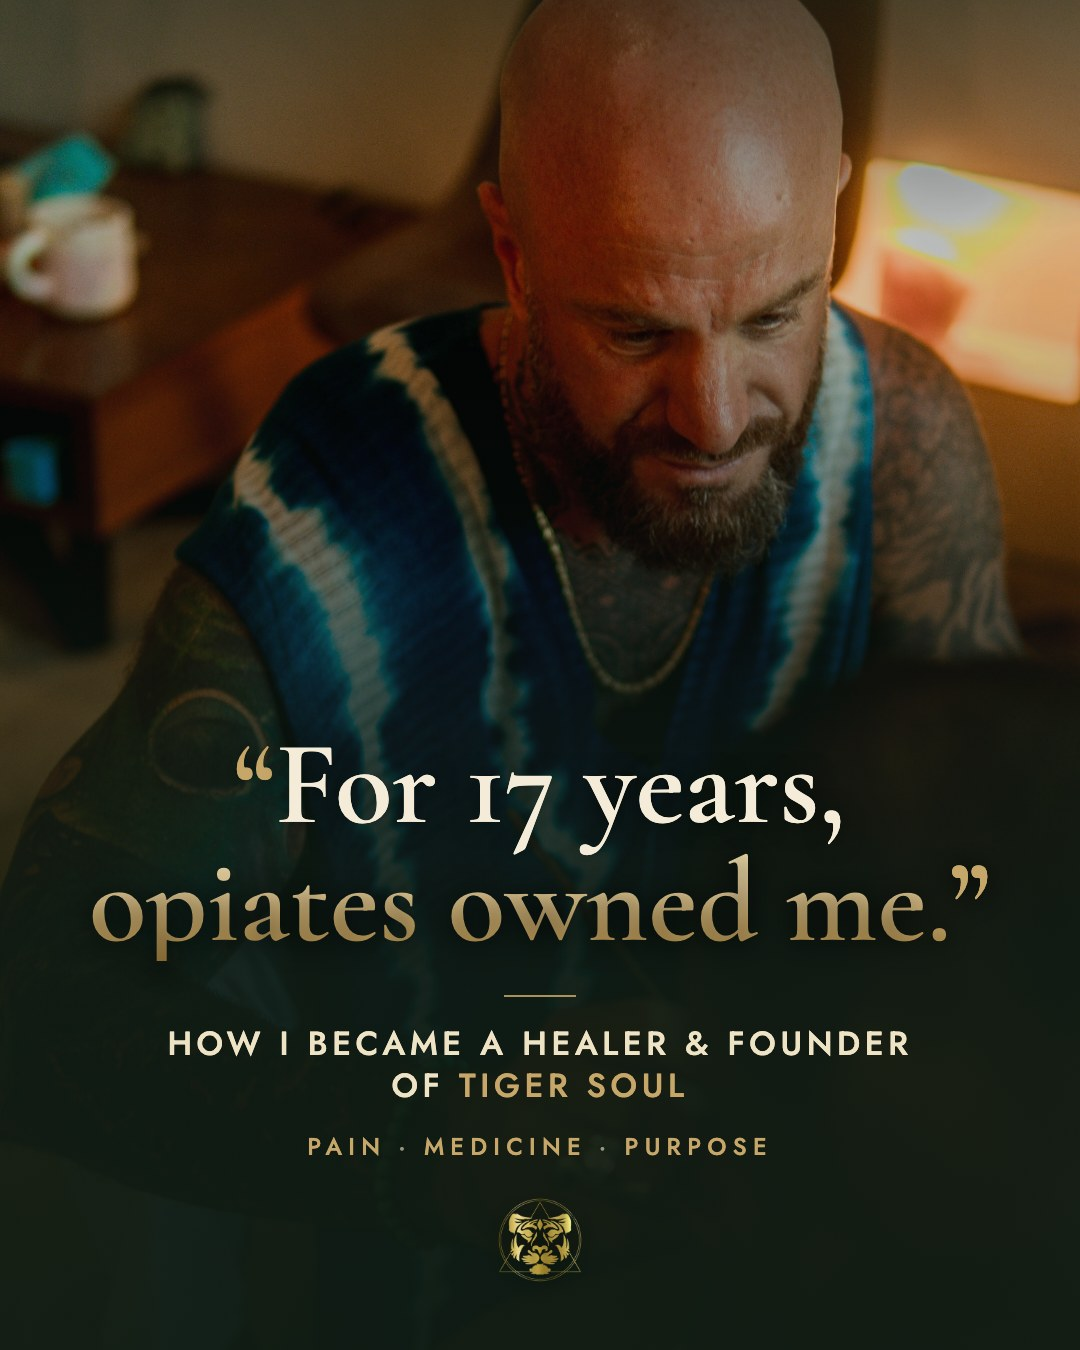
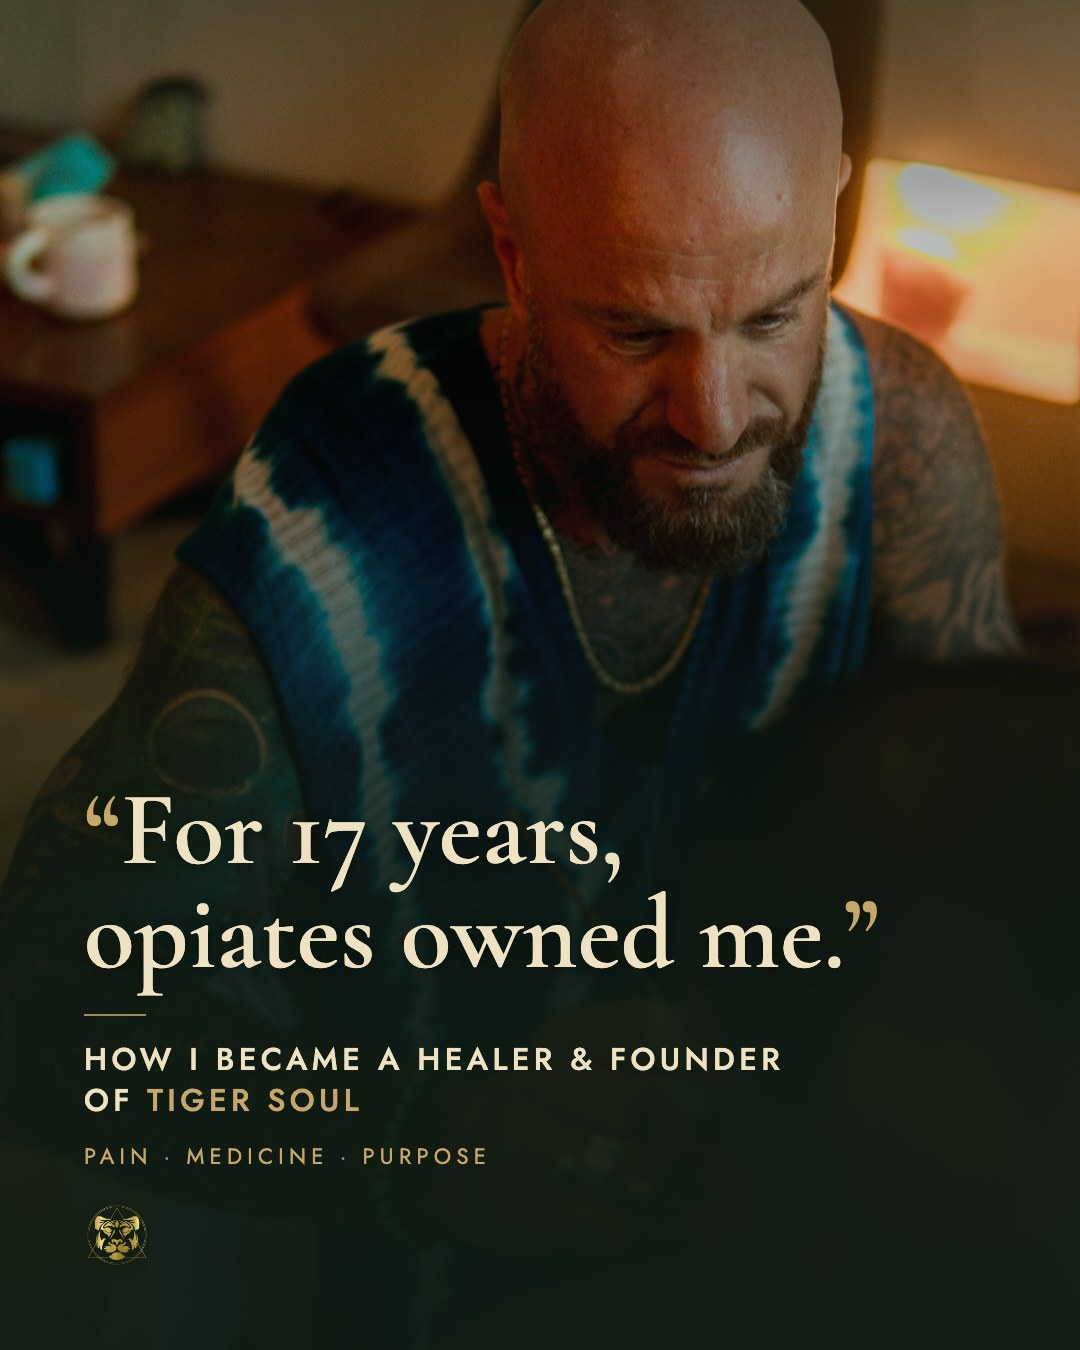
Slide 1: match deck styling (left-aligned, flat cream headline, gold accent only)

diff --git a/index.html b/index.html
@@ -358,15 +358,15 @@ const POSTS = [
     caption:"Caption should include:\n•  A short version of the story: from back pain and opiates to sacred medicine and healing others.\n•  An invitation to reach out or ask questions.",
     notes:"!! **First-draft slides are designed and ready below (9 slides).** These are a starting point built from Blaine's photos and his own words. Swap photos, tweak copy, or reorder right here.\n\nA sequenced carousel telling the story of how Blaine became a healer, in his own words. Each slide moves the story forward.\n\n# The story, slide by slide (as designed)\n• **Slide 1 (hook).** “How I became a healer” + “For 17 years, opiates owned me.”\n• **Slide 2.** Where it started: 17 years of back pain, and how it led to opiates.\n• **Slide 3.** The spiral: tolerance, withdrawals, being owned by it.\n• **Slide 4.** The opioid trap: the months of pain nobody warns you about.\n• **Slide 5.** First attempt: Ibogaine (it didn't hold, because of the environment).\n• **Slide 6.** The turning point: Ayahuasca.\n• **Slide 7.** Deeper healing: Kambo and other sacred medicines.\n• **Slide 8.** The calling: then Bufo called me.\n• **Slide 9.** Where he is now: facilitating and teaching others. Invitation to reach out.\n\n*Photos are in Blaine's original order from his doc. The words are drawn from how Blaine tells it, his voice comes first.*",
     assets:[
-      {src:"assets/carousel-healer/01.jpg?v=11", thumb:"assets/carousel-healer/thumb/01.jpg?v=11", cap:"Slide 1: Hook — How I became a healer & founder of Tiger Soul"},
-      {src:"assets/carousel-healer/02.jpg?v=11", thumb:"assets/carousel-healer/thumb/02.jpg?v=11", cap:"Slide 2: Where it started (17 years of pain)"},
-      {src:"assets/carousel-healer/03.jpg?v=11", thumb:"assets/carousel-healer/thumb/03.jpg?v=11", cap:"Slide 3: The spiral (it owned me)"},
-      {src:"assets/carousel-healer/04.jpg?v=11", thumb:"assets/carousel-healer/thumb/04.jpg?v=11", cap:"Slide 4: The opioid trap"},
-      {src:"assets/carousel-healer/05.jpg?v=11", thumb:"assets/carousel-healer/thumb/05.jpg?v=11", cap:"Slide 5: Ibogaine (first attempt)"},
-      {src:"assets/carousel-healer/06.jpg?v=11", thumb:"assets/carousel-healer/thumb/06.jpg?v=11", cap:"Slide 6: Ayahuasca (turning point)"},
-      {src:"assets/carousel-healer/07.jpg?v=11", thumb:"assets/carousel-healer/thumb/07.jpg?v=11", cap:"Slide 7: Kambo & sacred medicine"},
-      {src:"assets/carousel-healer/08.jpg?v=11", thumb:"assets/carousel-healer/thumb/08.jpg?v=11", cap:"Slide 8: Then Bufo called me"},
-      {src:"assets/carousel-healer/09.jpg?v=11", thumb:"assets/carousel-healer/thumb/09.jpg?v=11", cap:"Slide 9: Facilitating now + invitation"}
+      {src:"assets/carousel-healer/01.jpg?v=12", thumb:"assets/carousel-healer/thumb/01.jpg?v=12", cap:"Slide 1: Hook — How I became a healer & founder of Tiger Soul"},
+      {src:"assets/carousel-healer/02.jpg?v=12", thumb:"assets/carousel-healer/thumb/02.jpg?v=12", cap:"Slide 2: Where it started (17 years of pain)"},
+      {src:"assets/carousel-healer/03.jpg?v=12", thumb:"assets/carousel-healer/thumb/03.jpg?v=12", cap:"Slide 3: The spiral (it owned me)"},
+      {src:"assets/carousel-healer/04.jpg?v=12", thumb:"assets/carousel-healer/thumb/04.jpg?v=12", cap:"Slide 4: The opioid trap"},
+      {src:"assets/carousel-healer/05.jpg?v=12", thumb:"assets/carousel-healer/thumb/05.jpg?v=12", cap:"Slide 5: Ibogaine (first attempt)"},
+      {src:"assets/carousel-healer/06.jpg?v=12", thumb:"assets/carousel-healer/thumb/06.jpg?v=12", cap:"Slide 6: Ayahuasca (turning point)"},
+      {src:"assets/carousel-healer/07.jpg?v=12", thumb:"assets/carousel-healer/thumb/07.jpg?v=12", cap:"Slide 7: Kambo & sacred medicine"},
+      {src:"assets/carousel-healer/08.jpg?v=12", thumb:"assets/carousel-healer/thumb/08.jpg?v=12", cap:"Slide 8: Then Bufo called me"},
+      {src:"assets/carousel-healer/09.jpg?v=12", thumb:"assets/carousel-healer/thumb/09.jpg?v=12", cap:"Slide 9: Facilitating now + invitation"}
     ] },
 
   { date:"2026-08-13", pillar:"reflection", title:"Why I Became a Bufo Facilitator",
